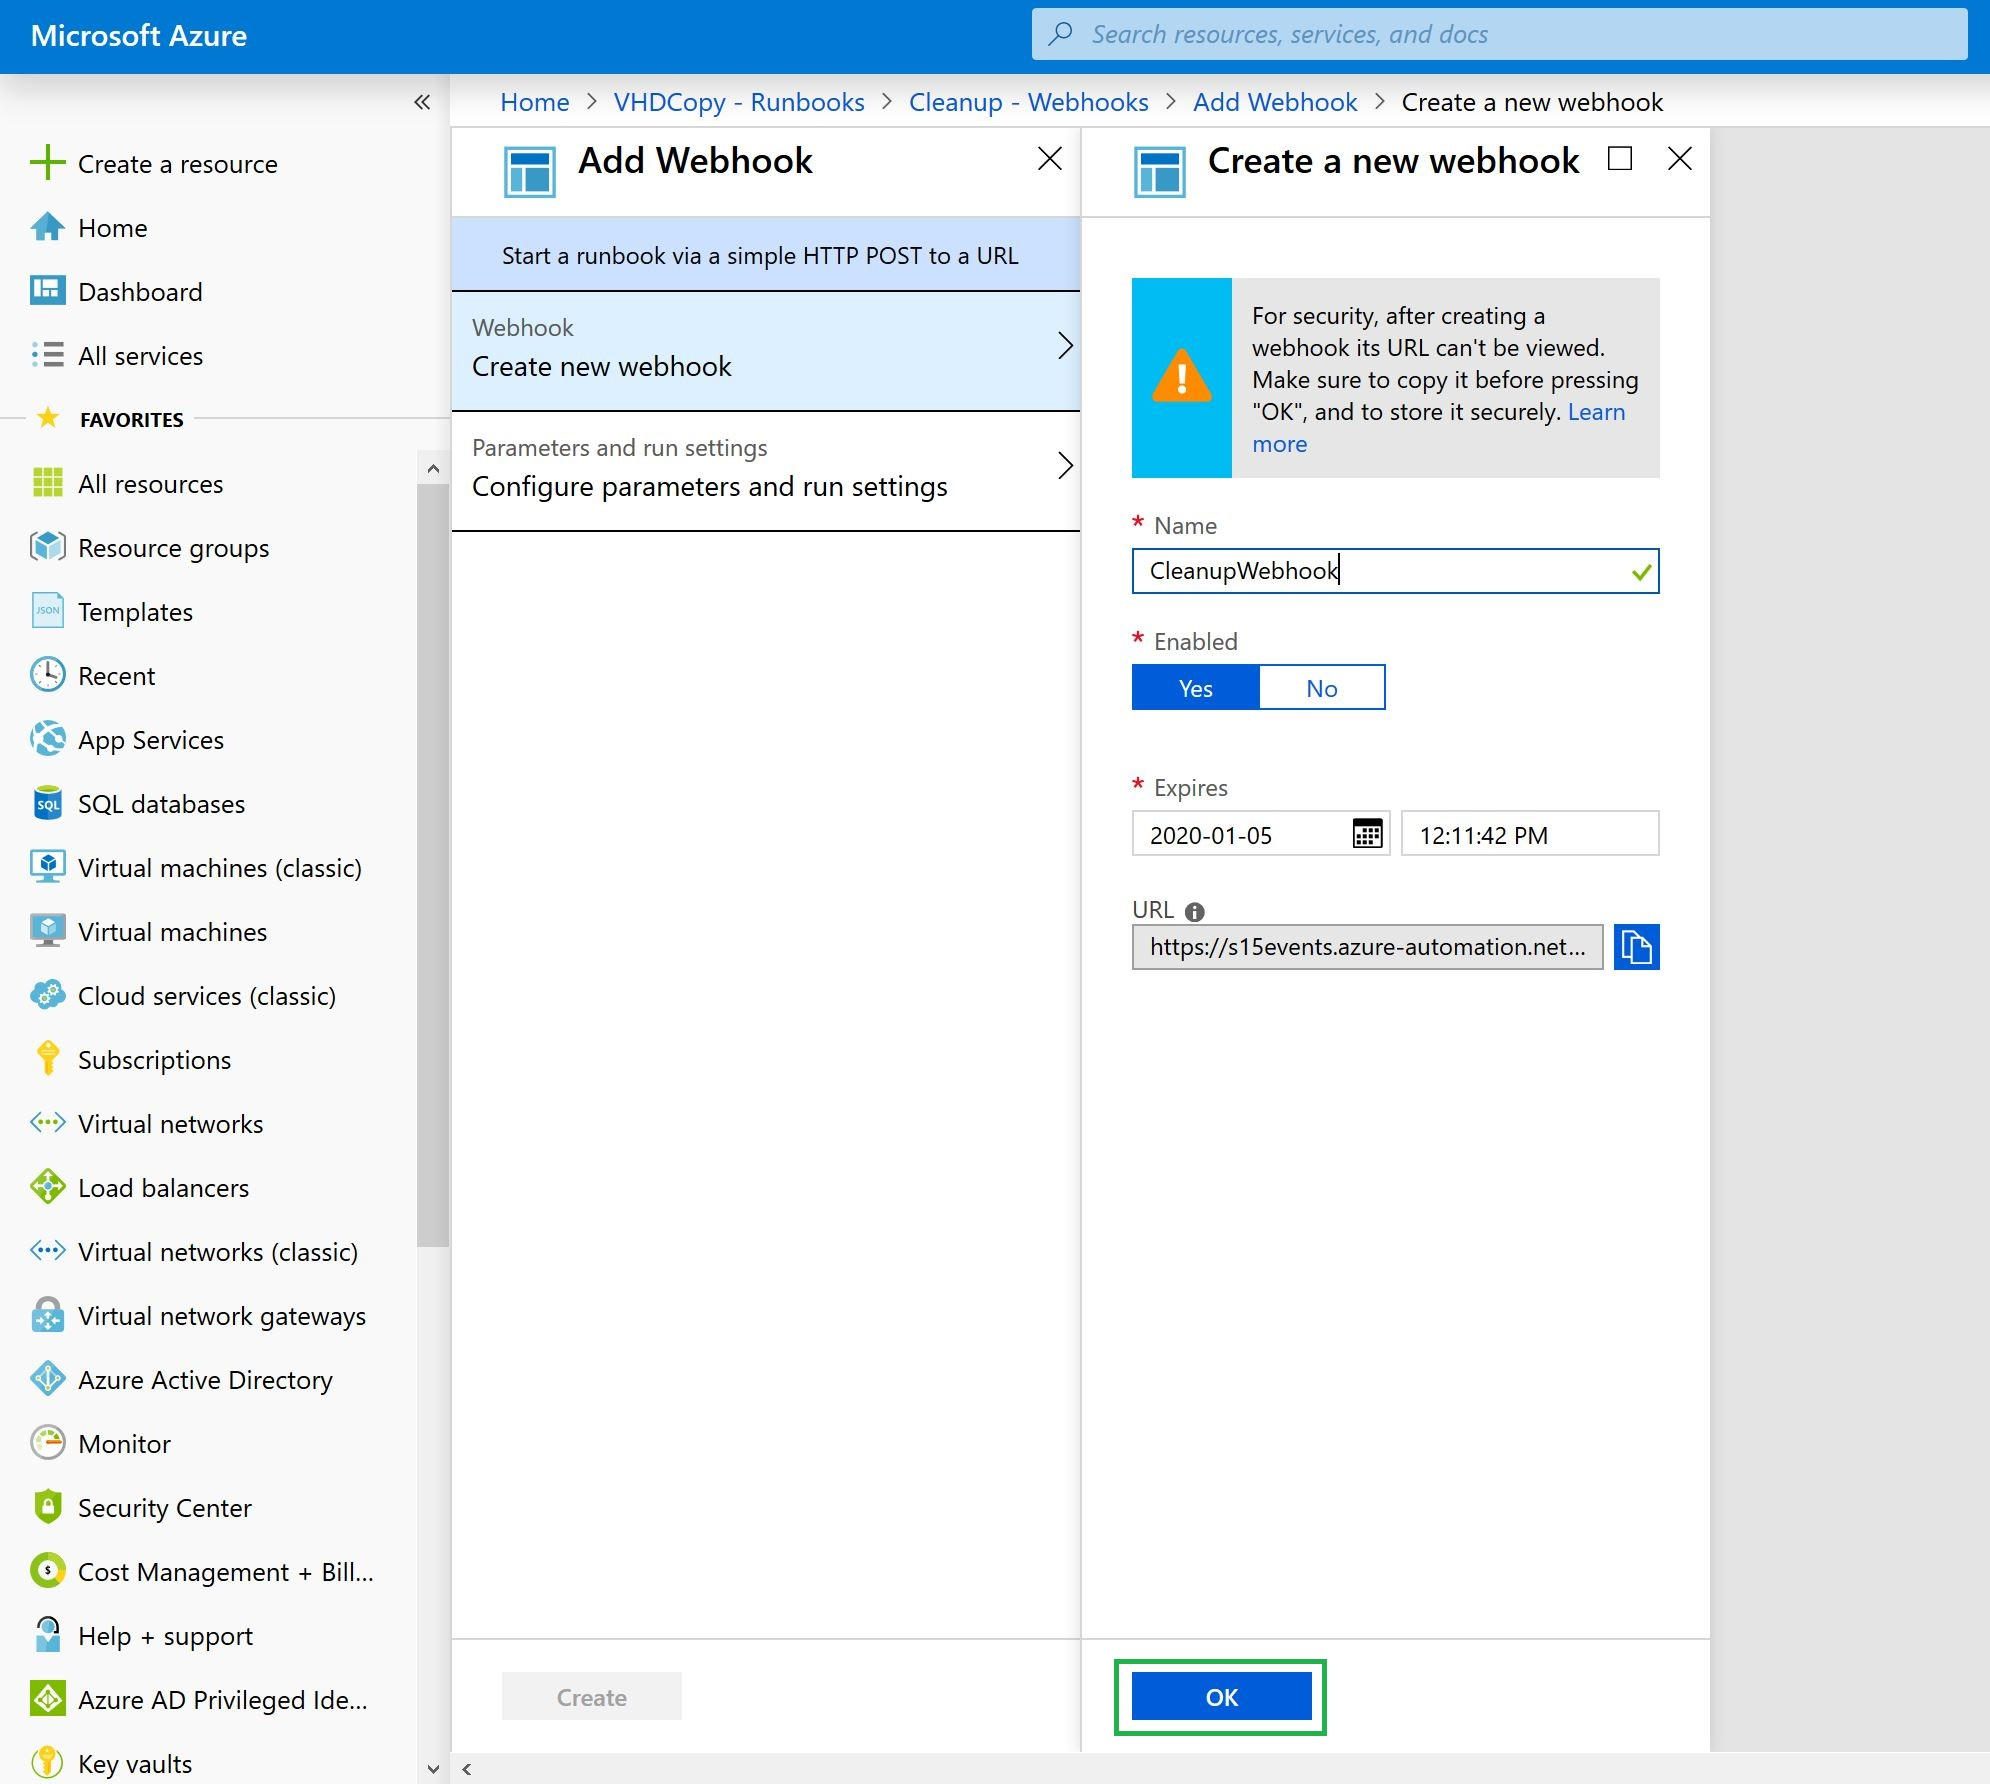
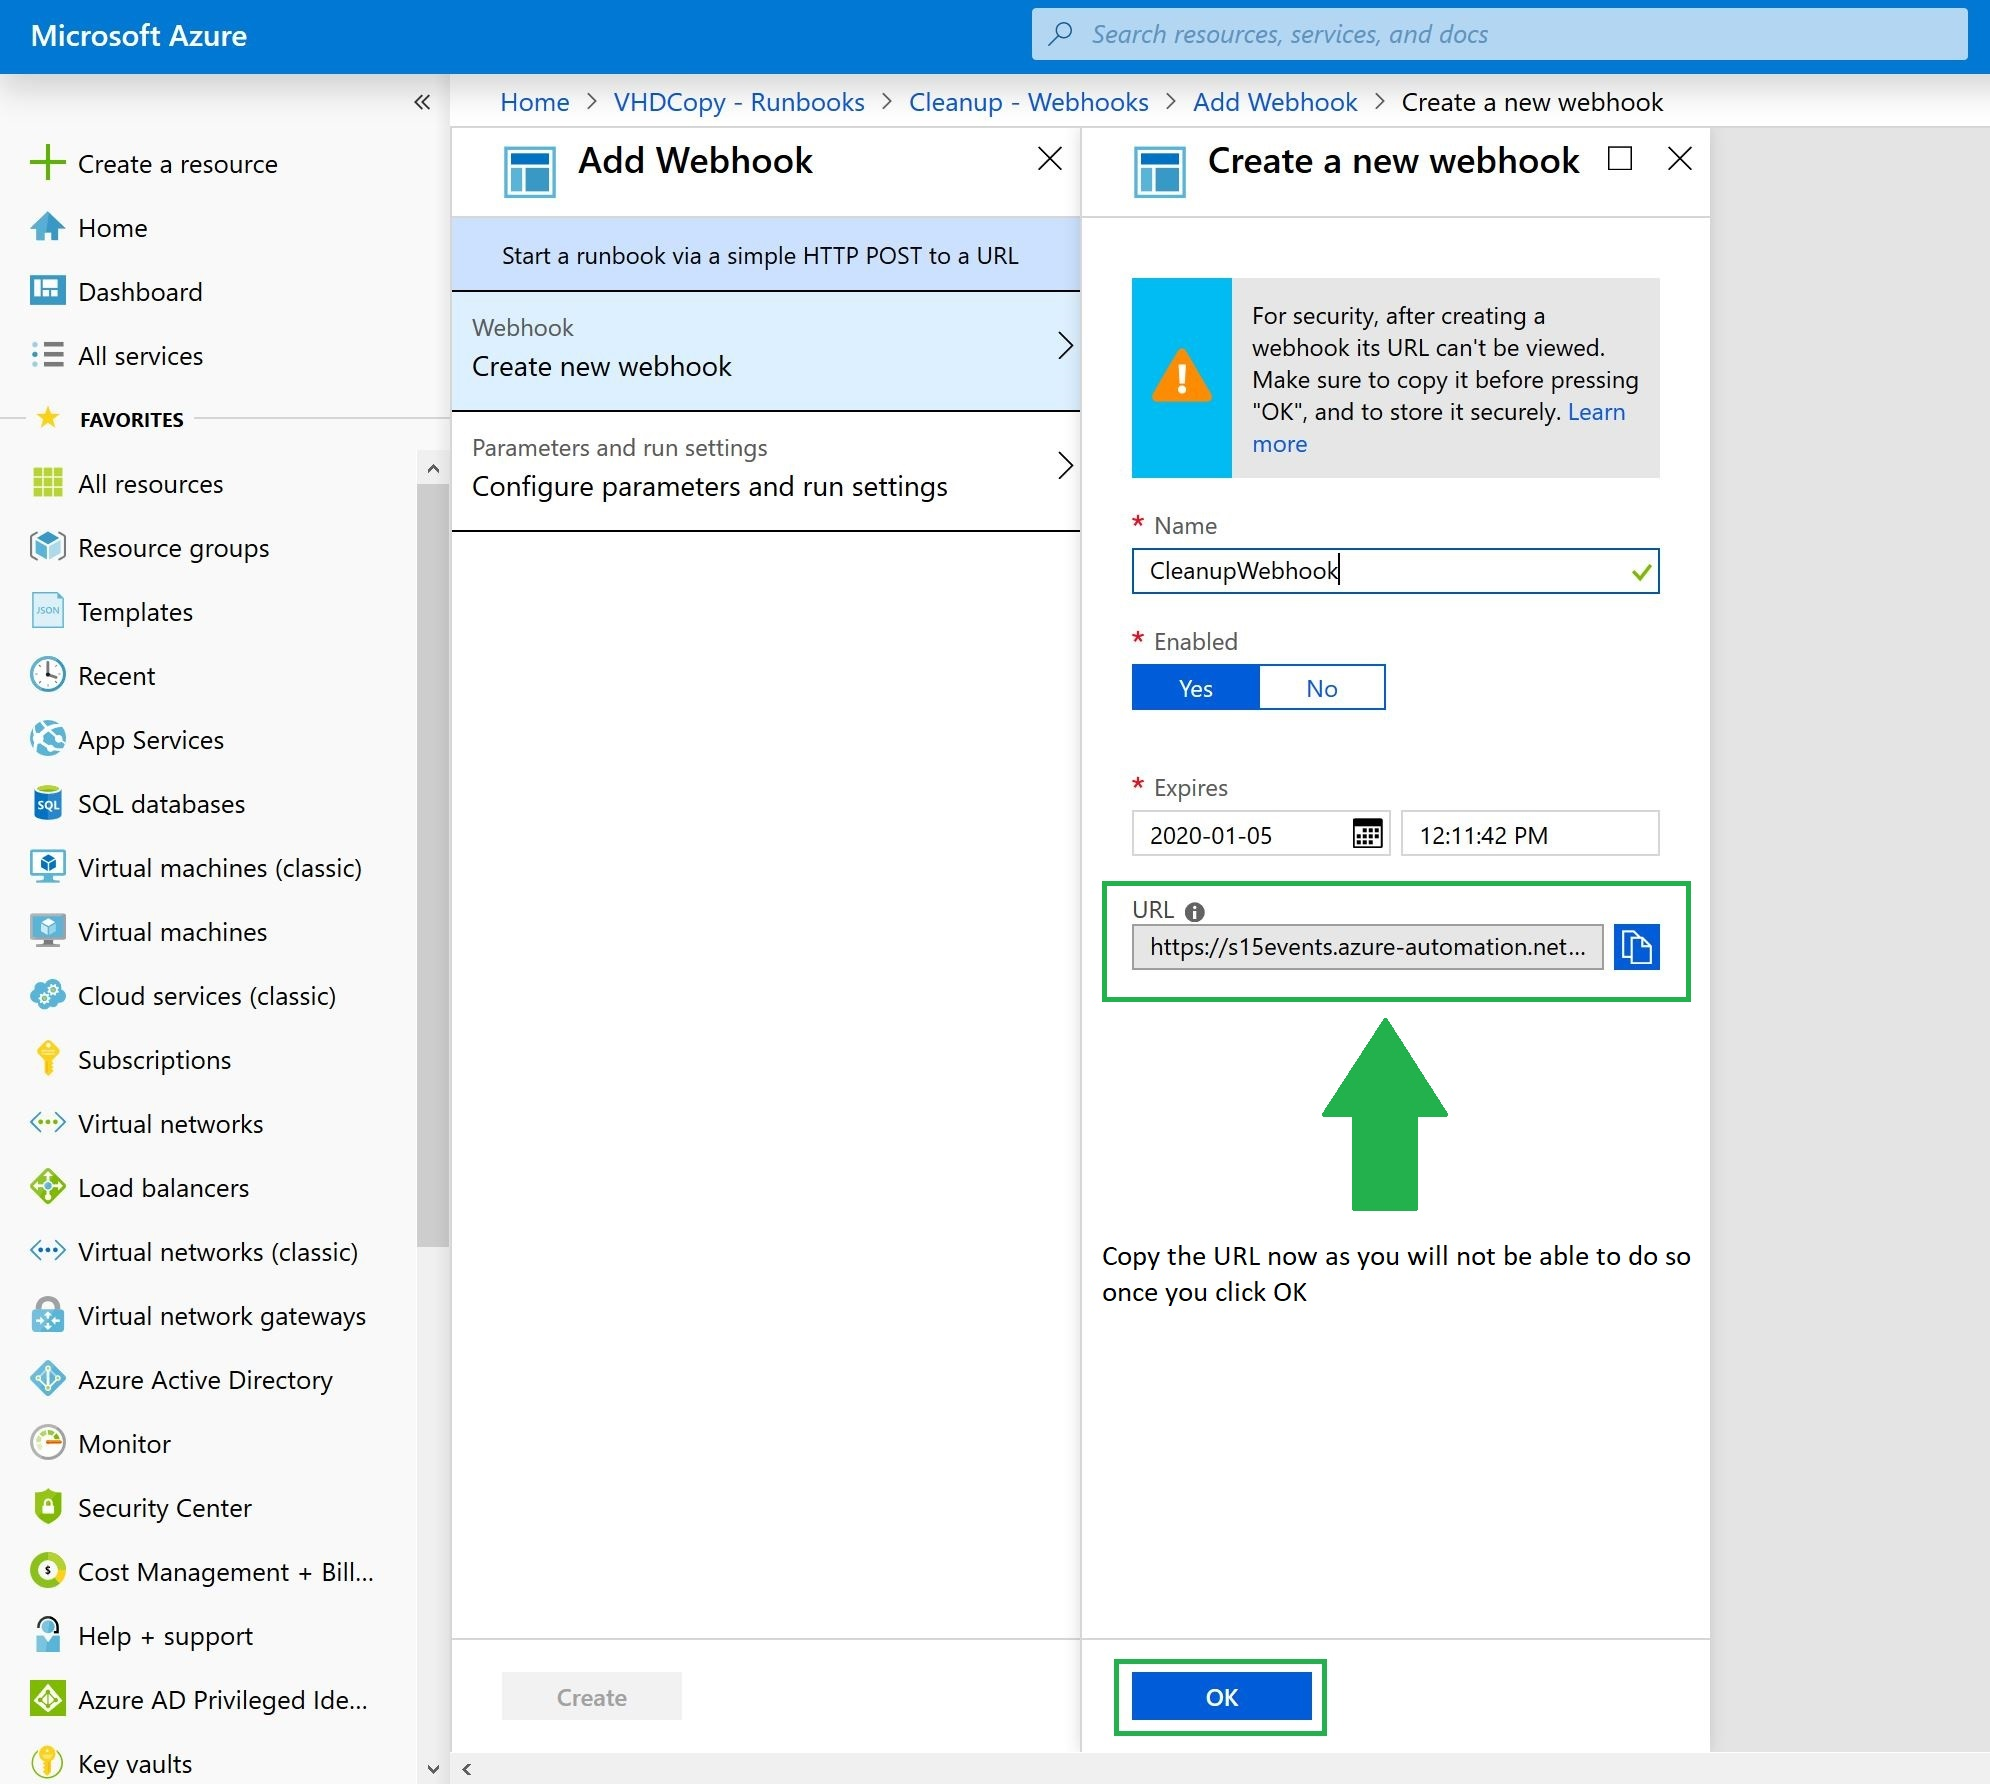
Doc update

Changed region(s): [[0.5608, 0.5549, 0.8412, 0.7399], [0.5296, 0.4933, 0.8724, 0.5241]]

diff --git a/README.md b/README.md
@@ -3,10 +3,35 @@
 Synchronously copy all managed disks of an Azure Virtual Machine to an Azure Storage Account in any Azure region. 
 
 1. Create an Azure Automation Account with a Run As account.
+![alt text](https://github.com/richardspitz/imagefactory/raw/master/images/AutoAccCreate.JPG)
+![alt text](https://github.com/richardspitz/imagefactory/raw/master/images/AutoAccount.JPG)
+
 2. ***Important*** Update Azure modules.
-3. Create and publish a PowerShell runbook each for ImageCopy.ps1 and Cleanup.ps1.
-4. Create a webhook on Cleanup.ps1 with sufficient validity (eg. 1 year) and save the URL for use in step 6.
-5. Create an encrypted Azure Automation Variable named 'adminPassword' with the password for the AzCopy VM the runbook will create. 
-6. Create another encrypted Azure Automation Variable named 'webhookURI' with the URL from step 4. 
-7. Note the expiry of the webhook and Azure Automation Run As account for renewal.
-8. Start the ImageCopy runbook.
+![alt text](https://github.com/richardspitz/imagefactory/raw/master/images/UpdateAzureModules.JPG)
+![alt text](https://github.com/richardspitz/imagefactory/raw/master/images/UpdateAzureModules1.JPG)
+3. Create and publish a PowerShell runbook each for ImageCopy.ps1 (named PageBlobCopy) and Cleanup.ps1 (named Cleanup). Copy the code from these files into the browser-based editor for each of these runbooks.
+(The steps below are for the first runbook. Repeat these for the second runbook as well)
+![alt text](https://github.com/richardspitz/imagefactory/raw/master/images/Runbook.JPG)
+![alt text](https://github.com/richardspitz/imagefactory/raw/master/images/Runbook1.JPG)
+![alt text](https://github.com/richardspitz/imagefactory/raw/master/images/Runbook2.JPG)
+
+4. Create a webhook on the Cleanup.ps1 runbook with sufficient validity (eg. 1 year) and save the URL for use in step 5.
+![alt text](https://github.com/richardspitz/imagefactory/raw/master/images/Webhook0.JPG)
+![alt text](https://github.com/richardspitz/imagefactory/raw/master/images/Webhook01.JPG)
+![alt text](https://github.com/richardspitz/imagefactory/raw/master/images/Webhook1.JPG)
+![alt text](https://github.com/richardspitz/imagefactory/raw/master/images/Webhook2.JPG)
+5. Create two encrypted Azure Automation Variables - one named 'adminPassword' with the password for the AzCopy VM the runbook will create and a second named 'webhookURI' with the URL from step 4. 
+![alt text](https://github.com/richardspitz/imagefactory/raw/master/images/Variables.JPG)
+![alt text](https://github.com/richardspitz/imagefactory/raw/master/images/Variables1.JPG)
+![alt text](https://github.com/richardspitz/imagefactory/raw/master/images/Variables2.JPG)
+![alt text](https://github.com/richardspitz/imagefactory/raw/master/images/Variables3.JPG)
+6. Start the PageBlobCopy runbook.
+![alt text](https://github.com/richardspitz/imagefactory/raw/master/images/StartRunbook.JPG)
+7. Locate the destination Azure Storage Account resource group, use any one of these options: 
+
+  a. Search your resource groups with the prefix "ImgFac"
+  b. Review the output of the PageBlobCopy job 
+  c. Review the Activity Log  
+
+Note:
+Record the expiry of the webhook URI and Azure Automation Run As accounts for renewal.
